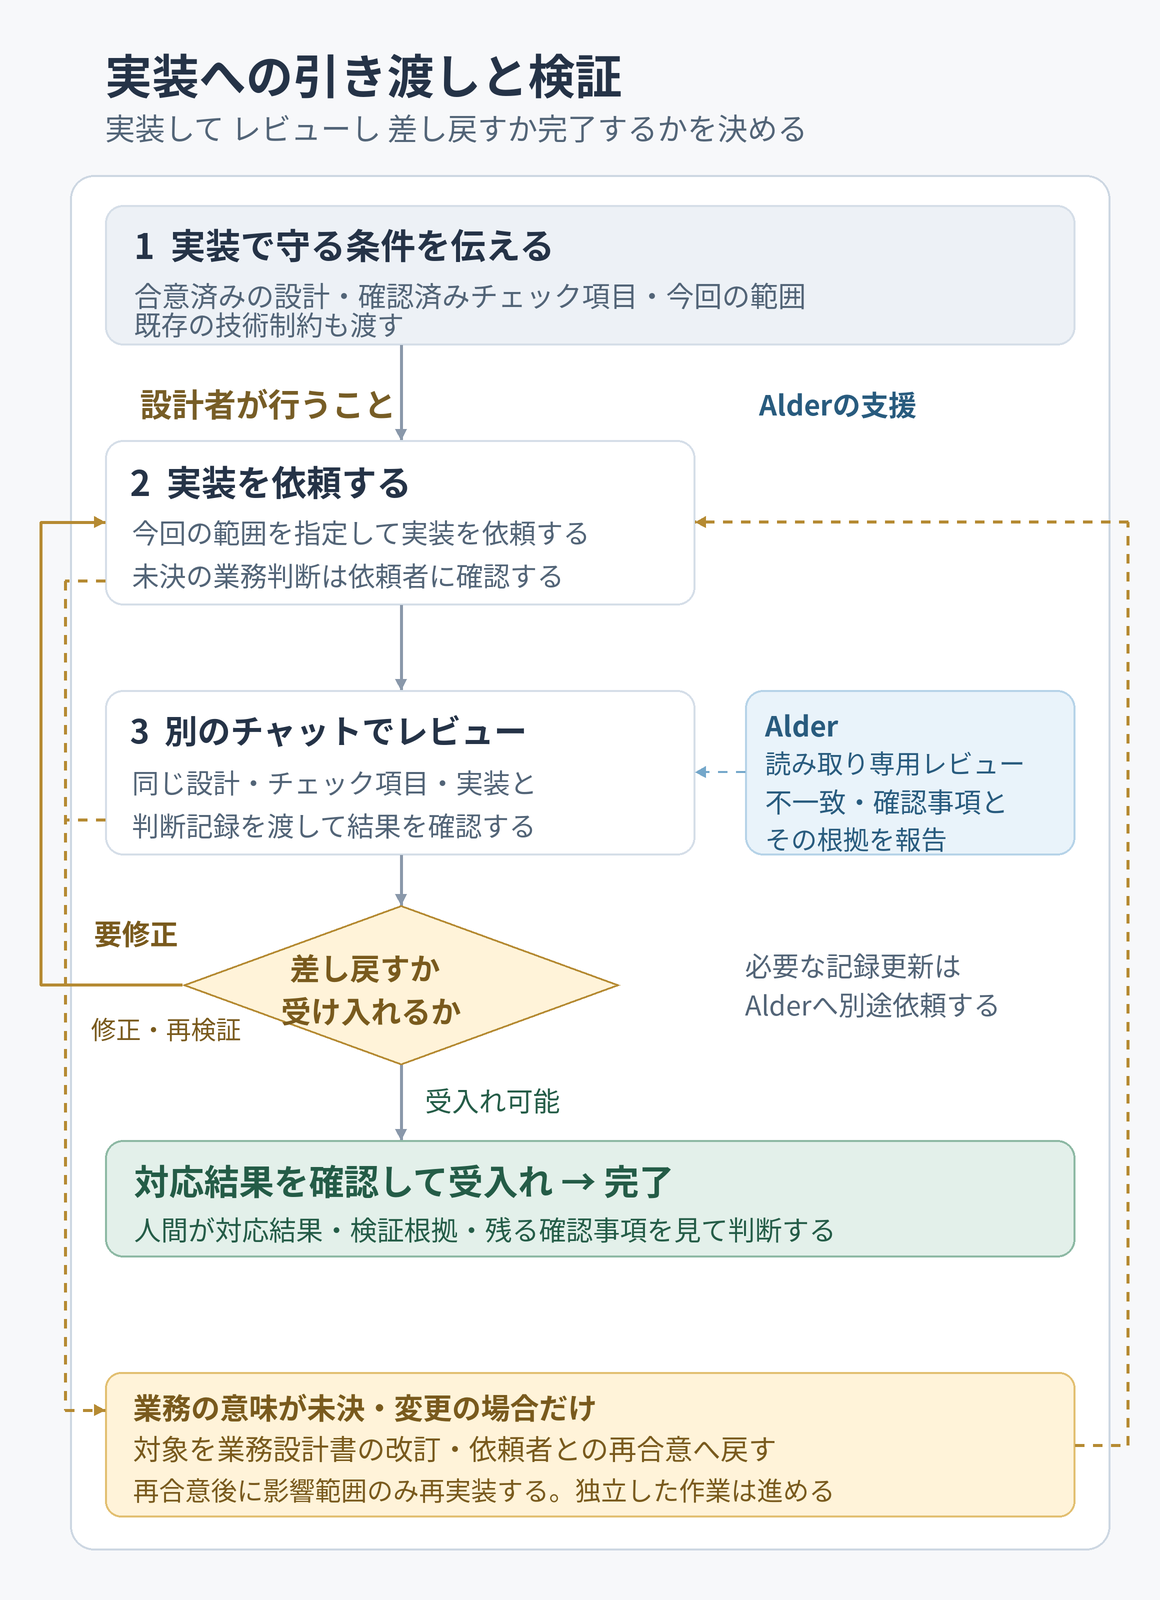
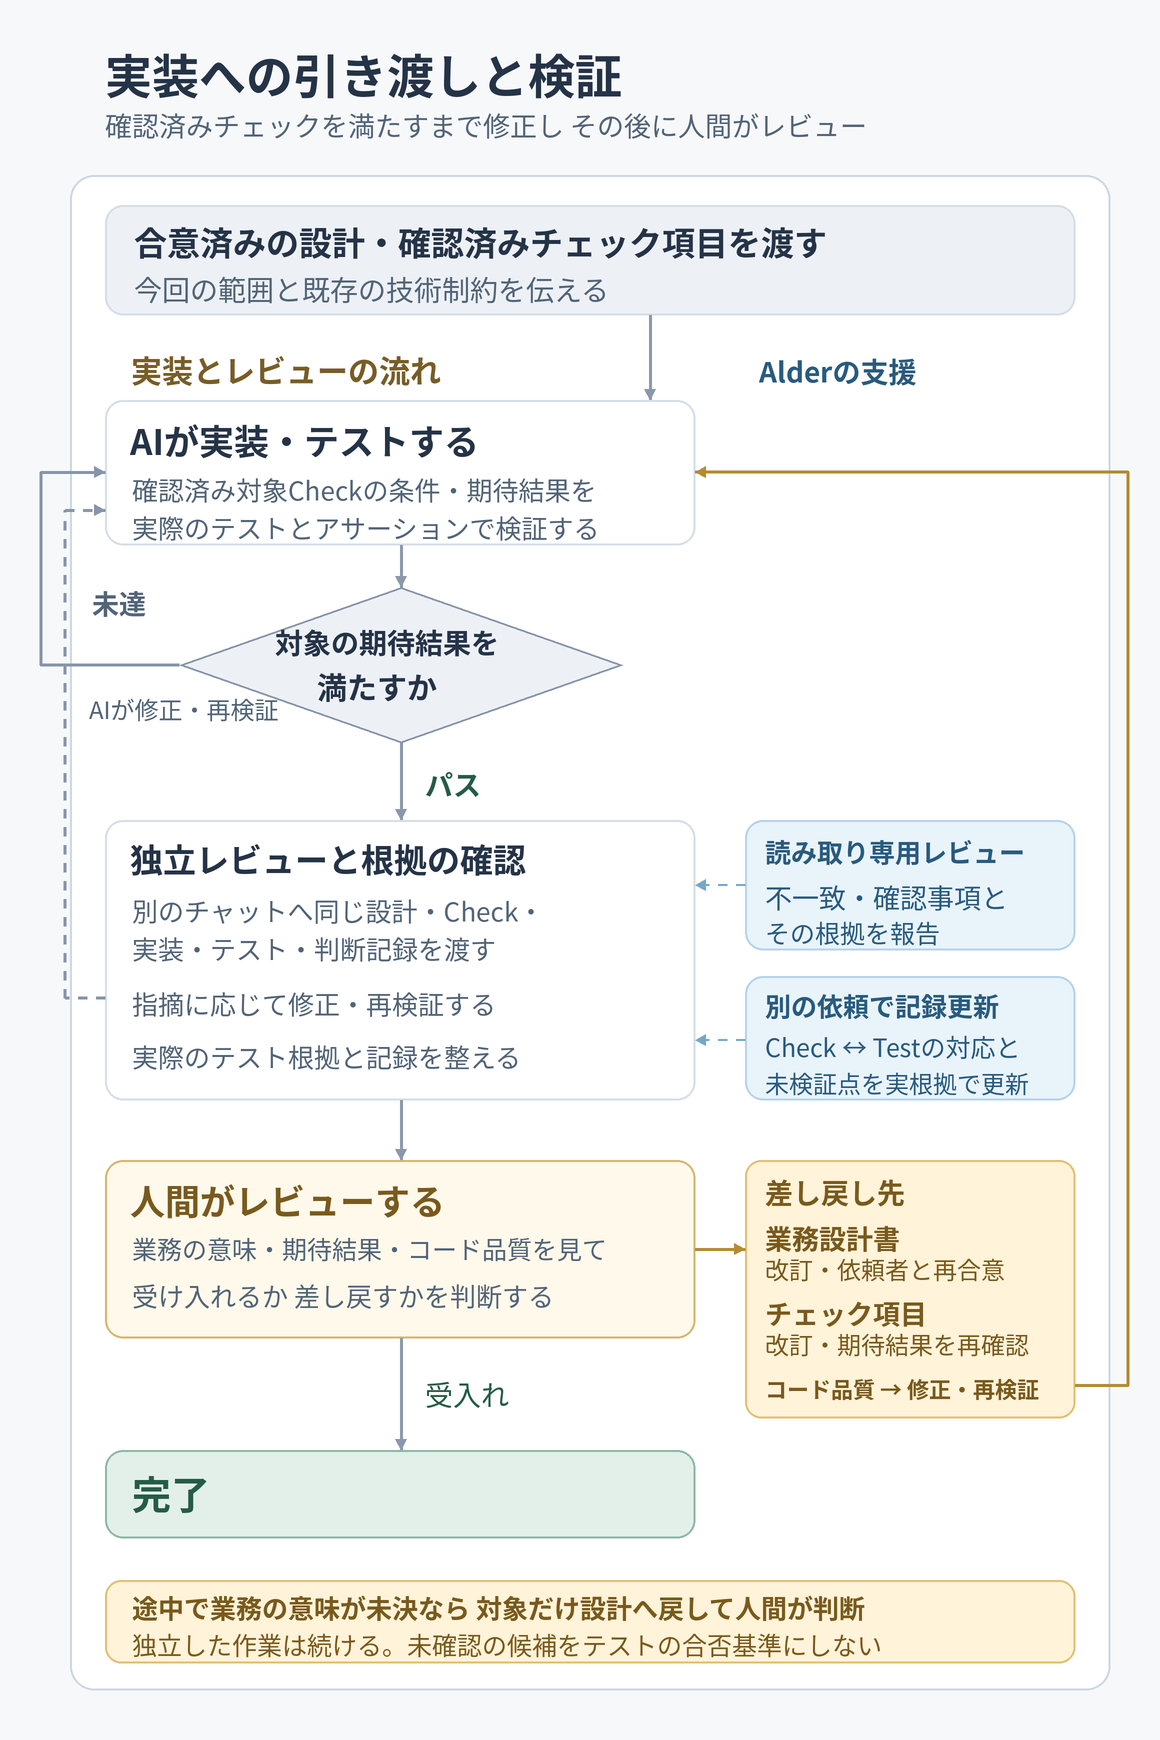
AIの実装検証ループと後段の人間レビューを分ける

diff --git a/README.md b/README.md
@@ -138,7 +138,7 @@ Return unresolved business decisions as questions to people; continue independen
 Hand material assumptions, choices, and reasons to a separate-context review.
 ```
 
-Pass Code / Test, verification results, and evidence for material choices in the agreed scope to the next review. Do not invent an undecided cancellation deadline in Test expectations; independent booking work may proceed.
+The implementation AI repeats fixes and test execution until the confirmed expectations in scope are satisfied; ordinary test failures do not need a human verdict on every iteration. Unconfirmed candidates and missing evidence do not count as passing. Return genuinely undecided business meaning to people while continuing independent work. Pass the code, tests, results, and material decision evidence to the separate Alder review below.
 
 ### 6. Review in a separate context and separate follow-up
 
@@ -153,7 +153,7 @@ Follow up this Alder review using these findings and human decisions.
 Update Check-to-Test mappings and remaining evidence gaps.
 ```
 
-Alder inspects the actual assertions and results, then records which Checks they verify and what remains unverified. **People judge acceptance from the addressed findings and remaining questions.** See [follow-up and traceability details](docs/check-item-traceability.md).
+Alder inspects the actual assertions and results, then records which Checks they verify and what remains unverified. **People then review the result and judge acceptance.** They may return business-meaning changes to Business Design, Check corrections to the same Check list, or implementation-quality issues to coding and verification. See [follow-up and traceability details](docs/check-item-traceability.md).
 
 ## Advanced
 
